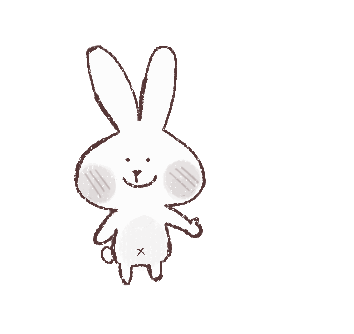
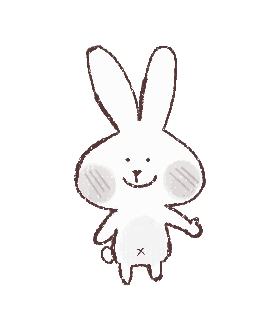
centered bom

diff --git a/main_menu.html b/main_menu.html
@@ -126,7 +126,7 @@
 </div>
 
 <div class="container">
-  <h1 style="text-align: center;"><img src="images/up.png" alt="bunny smiling" style="width: 200px; height: auto;">
+  <h1 style="text-align: center;"><img src="images/up.png" alt="bunny smiling" style="width: 300px; height: auto;">
   </h1>
   <a id ="button" href="interactive_calendar.html" class="button">Get Started!</a>
 </div>
